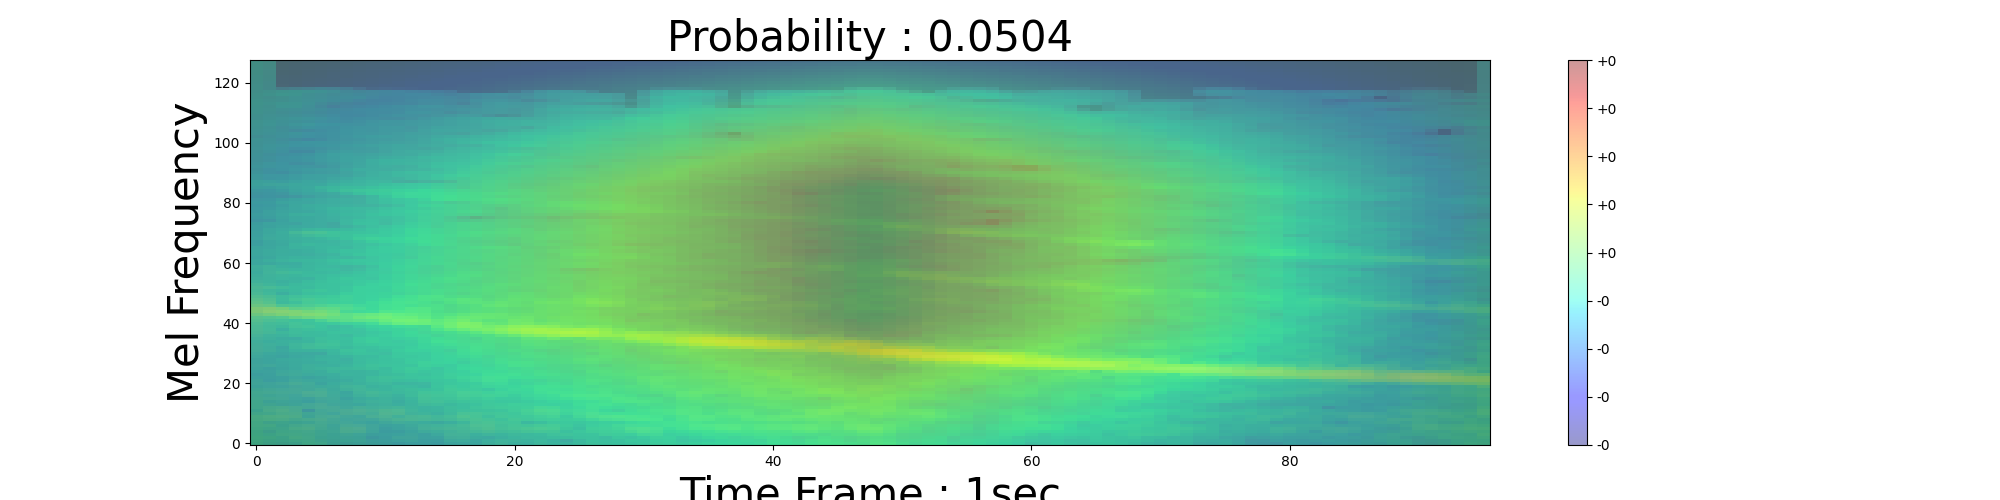
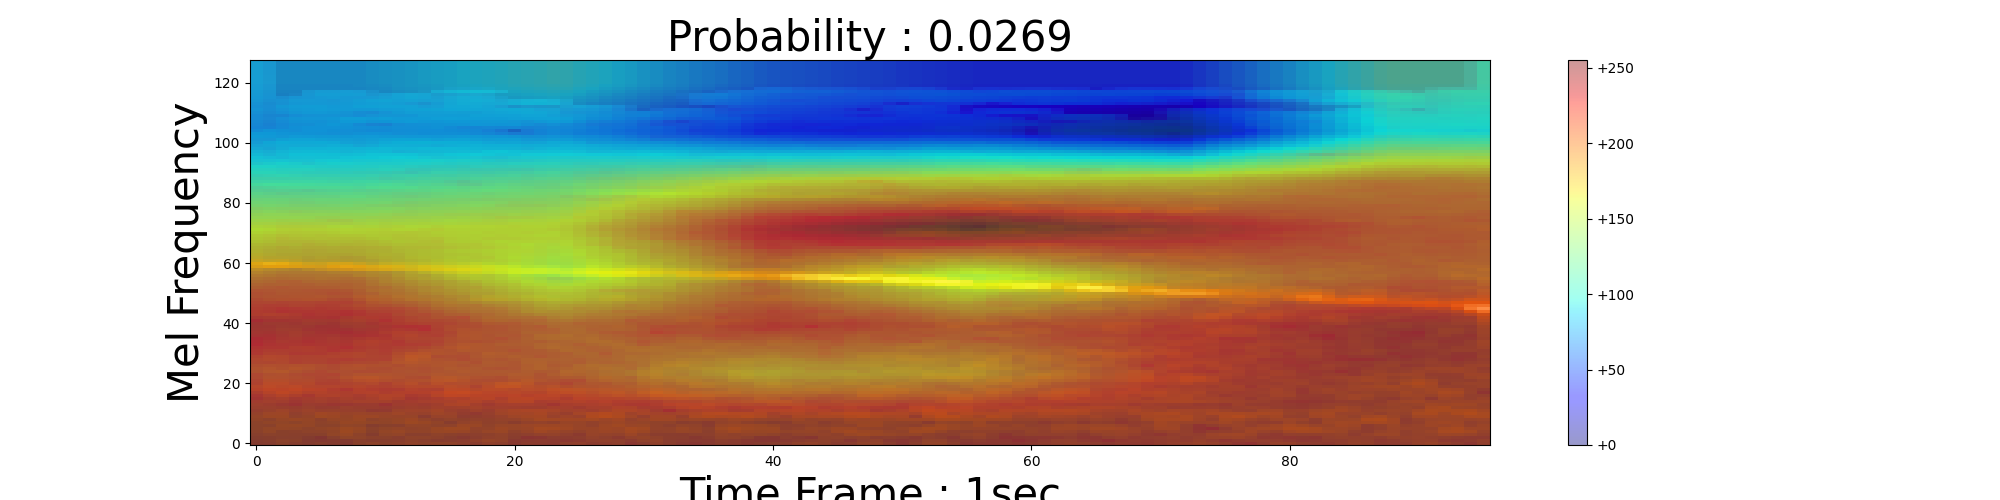
commit update about conv networks

diff --git a/main.py b/main.py
@@ -28,14 +28,15 @@ def main():
     class_index = model_utils.find_class_num(args.class_name, tags)
     gradcam_utils = GradCAMUtils()
     if model_type == 'ensemble':
-        #grad_cam_results1, grad_cam_results2 = gradcam_utils.generate_grad_cam_tf_explain(inner_model_0, inner_model_1, model_pre_output, class_index, ['m_main_0_Conv_1', 'm_main_1_Conv_1'], args)
-        grad_cam_results1, grad_cam_results2 = gradcam_utils.generate_grad_cam_tf_keras_vis([inner_model_0, inner_model_1], model_pre_output, class_index, ['m_main_0_Conv_1', 'm_main_1_Conv_1'], args)
+        grad_cam_results1, grad_cam_results2 = gradcam_utils.generate_grad_cam_tf_explain([inner_model_0, inner_model_1], model_pre_output, class_index, ['m_main_0_Conv_1', 'm_main_1_Conv_1'], args)
+        #grad_cam_results1, grad_cam_results2 = gradcam_utils.generate_grad_cam_tf_keras_vis([inner_model_0, inner_model_1], model_pre_output, class_index, ['m_main_0_Conv_1', 'm_main_1_Conv_1'], args)
     else:
-        grad_cam_results1, grad_cam_results2 = gradcam_utils.generate_grad_cam_tf_keras_vis(model_main, model_pre_output, class_index, 'conv_46', args)
+        grad_cam_results1, grad_cam_results2 = gradcam_utils.generate_grad_cam_tf_explain(model_main, model_pre_output, class_index, 'conv2d_46', args)
+        #grad_cam_results1, grad_cam_results2 = gradcam_utils.generate_grad_cam_tf_keras_vis(model_main, model_pre_output, class_index, 'conv2d_46', args)
         
     # Step 6: Visualization
     VisualizationUtils.plot_grad_cam(model_pre_output, grad_cam_results1, grad_cam_results2, args.class_name, target_tag_prob=target_tag_prob, seconds=args.target_sec)
-
+    #VisualizationUtils.subplot_grad_cam(model_pre_output, grad_cam_results1, grad_cam_results2, target_tag_prob=target_tag_prob)
 
 if __name__ == "__main__":
     main()

diff --git a/src/utils.py b/src/utils.py
@@ -64,6 +64,26 @@ class ModelUtils:
         return model_pre, model_main, inner_model_2, inner_reduce_model_0, inner_reduce_model_1, inner_model_0, inner_model_1
 
     @staticmethod
+    def load_tflite_model():
+        """
+        Loads and returns TFLite models.
+
+        Returns:
+        - Tuple of TFLite models and inner models.
+        """
+
+        interpreter_pre = tf.lite.Interpreter(model_path=args.pre_model)
+        interpreter_pre.allocate_tensors()
+
+        input_details_pre = interpreter_pre.get_input_details()
+        output_details_pre = interpreter_pre.get_output_details()
+
+
+
+        return interpreter, input_details, output_details
+
+
+    @staticmethod
     def load_class_list(model_path, model, args):
         """
         Loads class list based on the model's class count.
@@ -115,6 +135,26 @@ class ModelUtils:
         """
         class_num = tags_df[tags_df['tags'] == tag_name].index[0]
         return class_num
+    
+    @staticmethod
+    def find_last_conv_layer(model_main):
+        """
+        Finds the last convolutional layer.
+
+        Parameters:
+        - model_main: The Keras model.
+
+        Returns:
+        - str: Name of the last convolutional layer.
+        """
+
+        last_conv_layer = None
+        for layer in reversed(model_main.layers):
+            if len(layer.output_shape) == 4:
+                last_conv_layer = layer.name
+                break
+
+        return last_conv_layer
 
     @staticmethod
     def predict(model_pre, model_main, tags, frames_reshaped):
@@ -315,6 +355,7 @@ class VisualizationUtils:
 
         plt.savefig('./assets/_output/activation_hist_grad.png', axs)
         plt.close()
+ 
 
 class AudioUtils:
     def __init__(self):

diff --git a/src/gradcam.py b/src/gradcam.py
@@ -31,8 +31,8 @@ class GradCAMUtils:
         
         return data
 
-    @classmethod
-    def generate_grad_cam_tf_explain(cls, model, model_1, model_pre_output, class_num, layer_name, args):
+    @staticmethod
+    def generate_grad_cam_tf_explain(model, model_pre_output, class_num, layer_name, args):
         """
         Generates GradCAM using TfExplain.
 
@@ -54,7 +54,7 @@ class GradCAMUtils:
         explainer = TfExplainGradCAM()
 
         for i in range(model_pre_output.shape[0]):
-            data = cls._preprocess_input(model_pre_output[i])
+            data = GradCAMUtils._preprocess_input(model_pre_output[i])
             data = (data, None)
             print(data[0].shape)
 
@@ -66,8 +66,8 @@ class GradCAMUtils:
                 grids2.append(cam2)
 
             elif ModelUtils.check_model_type(args) == 'ensemble':
-                cam1 = explainer.explain(data, model, class_index=class_num, layer_name=layer_name[0])
-                cam2 = explainer.explain(data, model_1, class_index=class_num, layer_name=layer_name[1])
+                cam1 = explainer.explain(data, model[0], class_index=class_num, layer_name=layer_name[0])
+                cam2 = explainer.explain(data, model[1], class_index=class_num, layer_name=layer_name[1])
                 grids1.append(cam1)
                 grids2.append(cam2)
             else:

diff --git a/src/cli.py b/src/cli.py
@@ -22,7 +22,7 @@ def cli():
     # The arguments for audio source
     parser.add_argument('--audio_source', '-a', type=str, help='audio source path')
     parser.add_argument('--class_name', '-c', type=str, default='Gunshot', help='original class name by sources')
-    parser.add_argument('--target_sec', '-ts', type=int, default=1, help='start time of target range')
+    parser.add_argument('--target_sec', '-ts', type=int, default=0, help='start time of target range')
 
     """
     The arguments for Modifying the audio source
